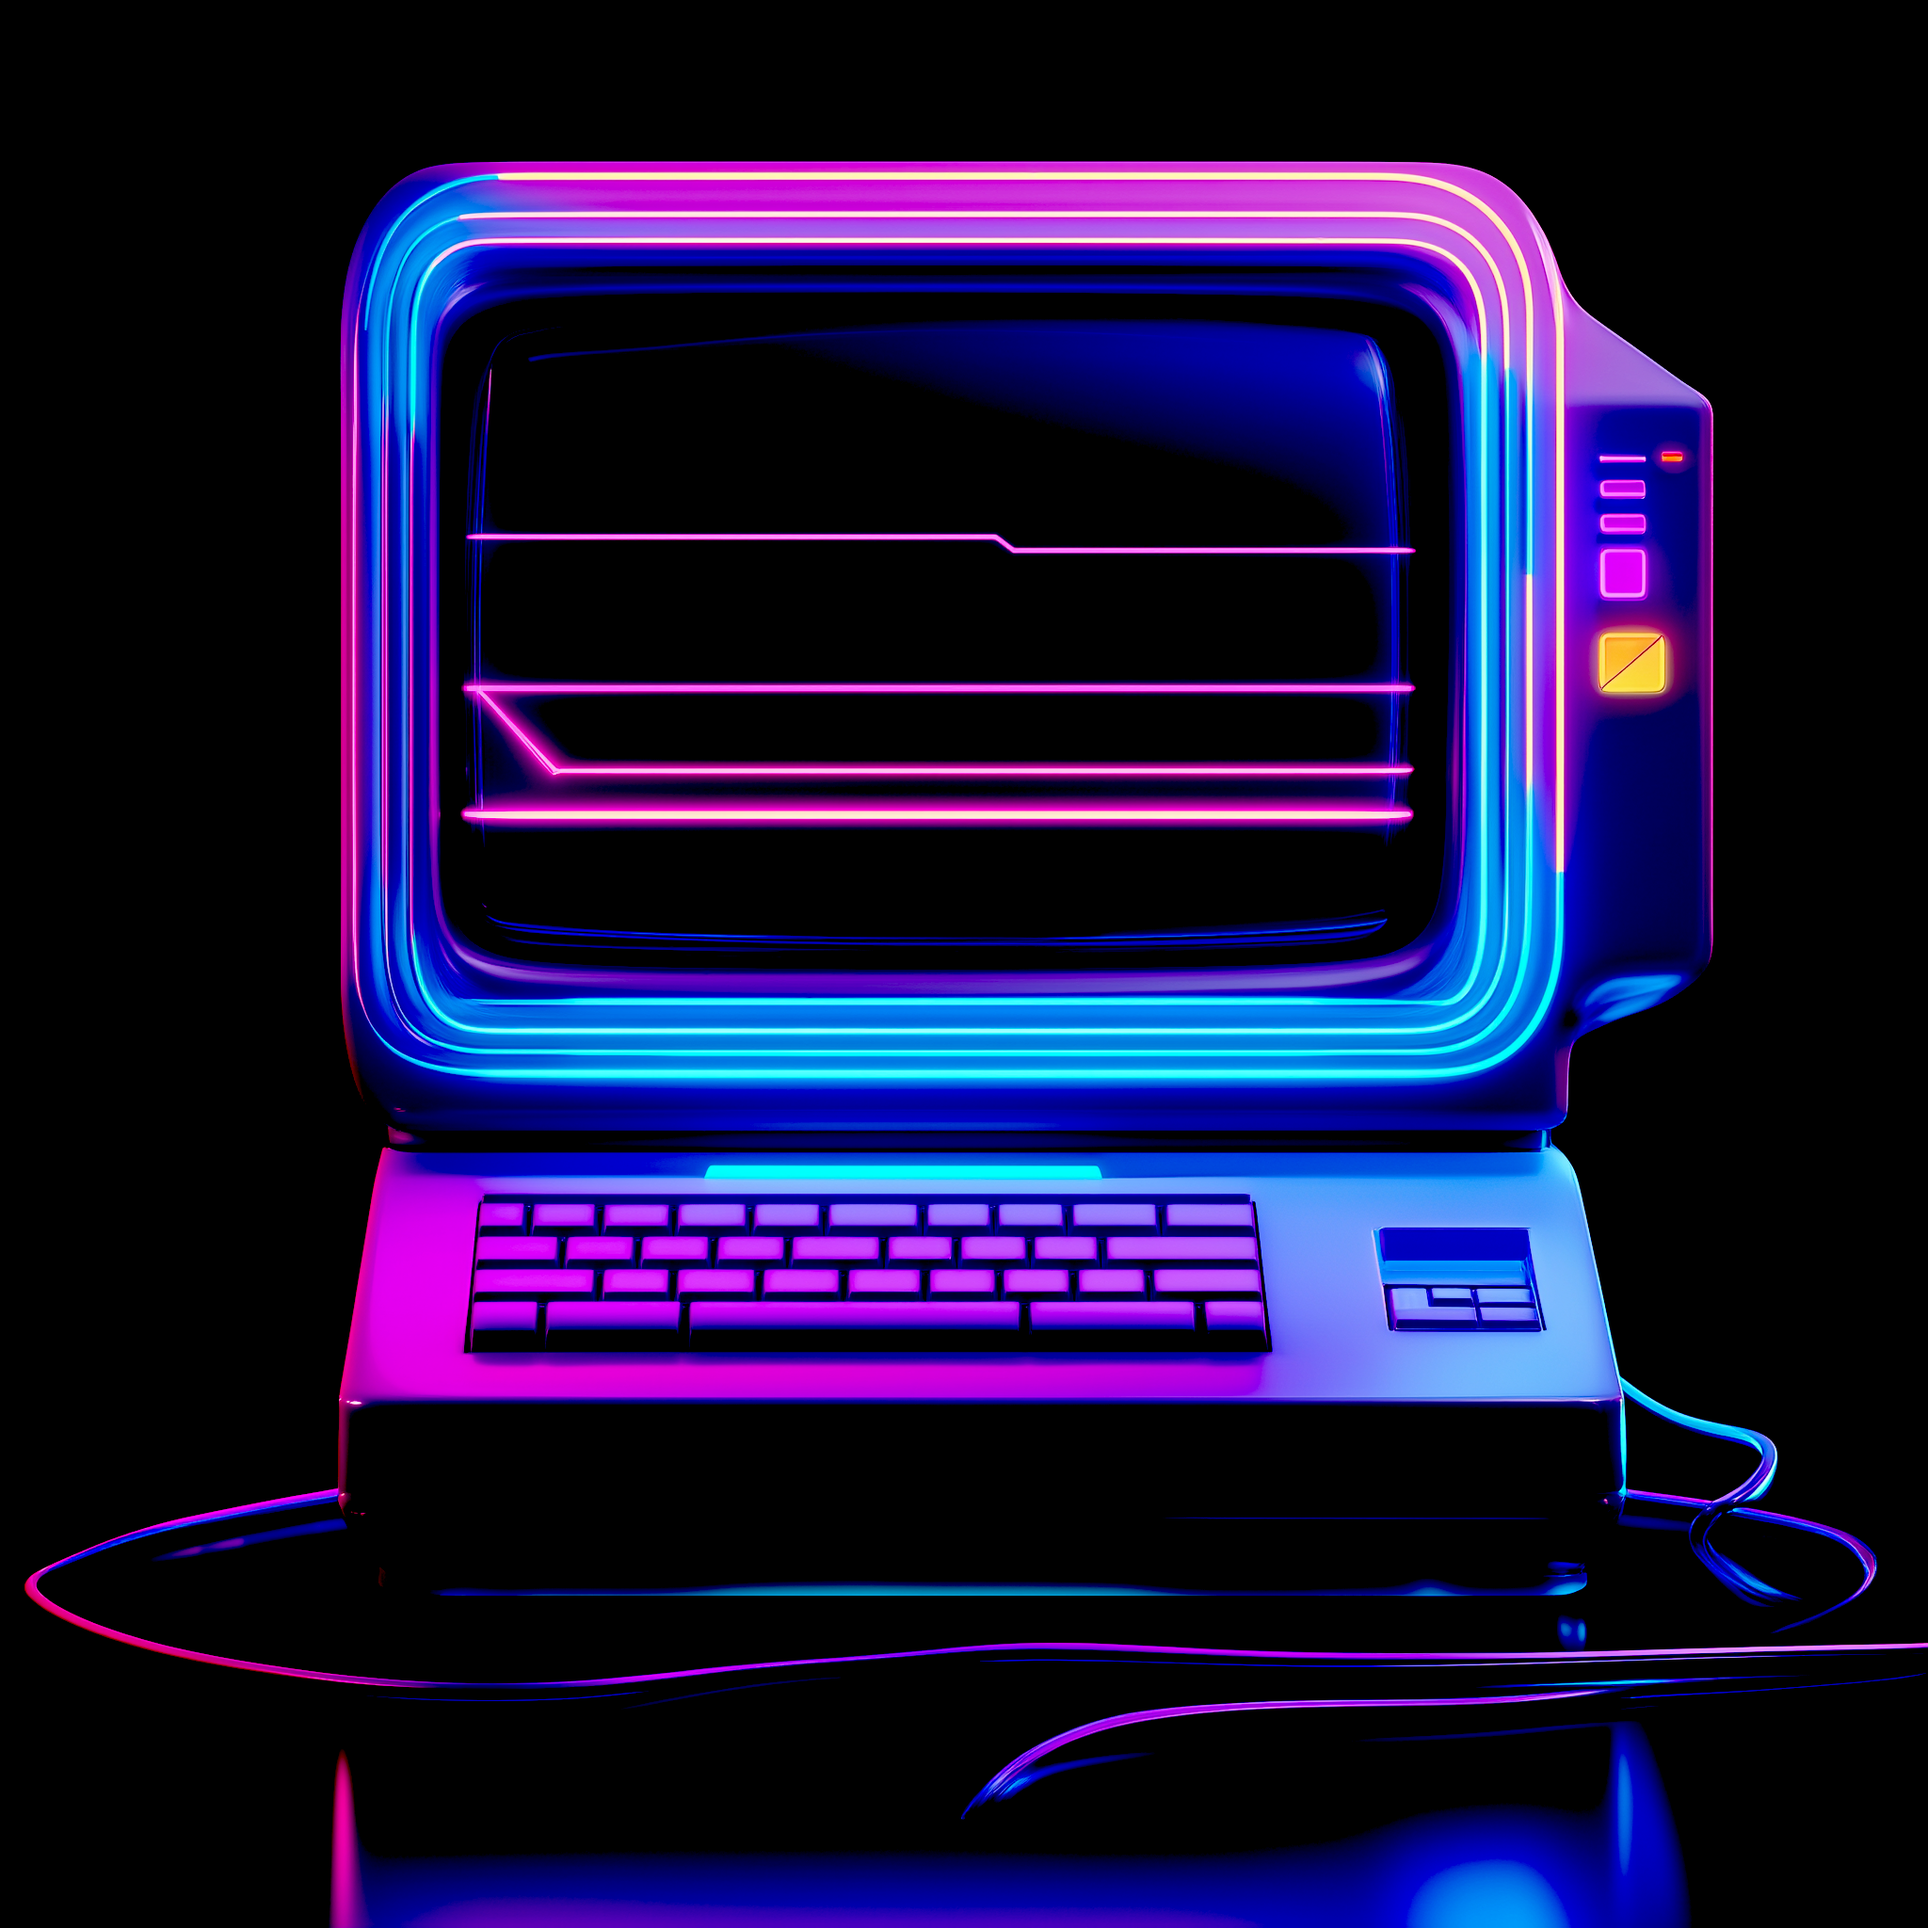
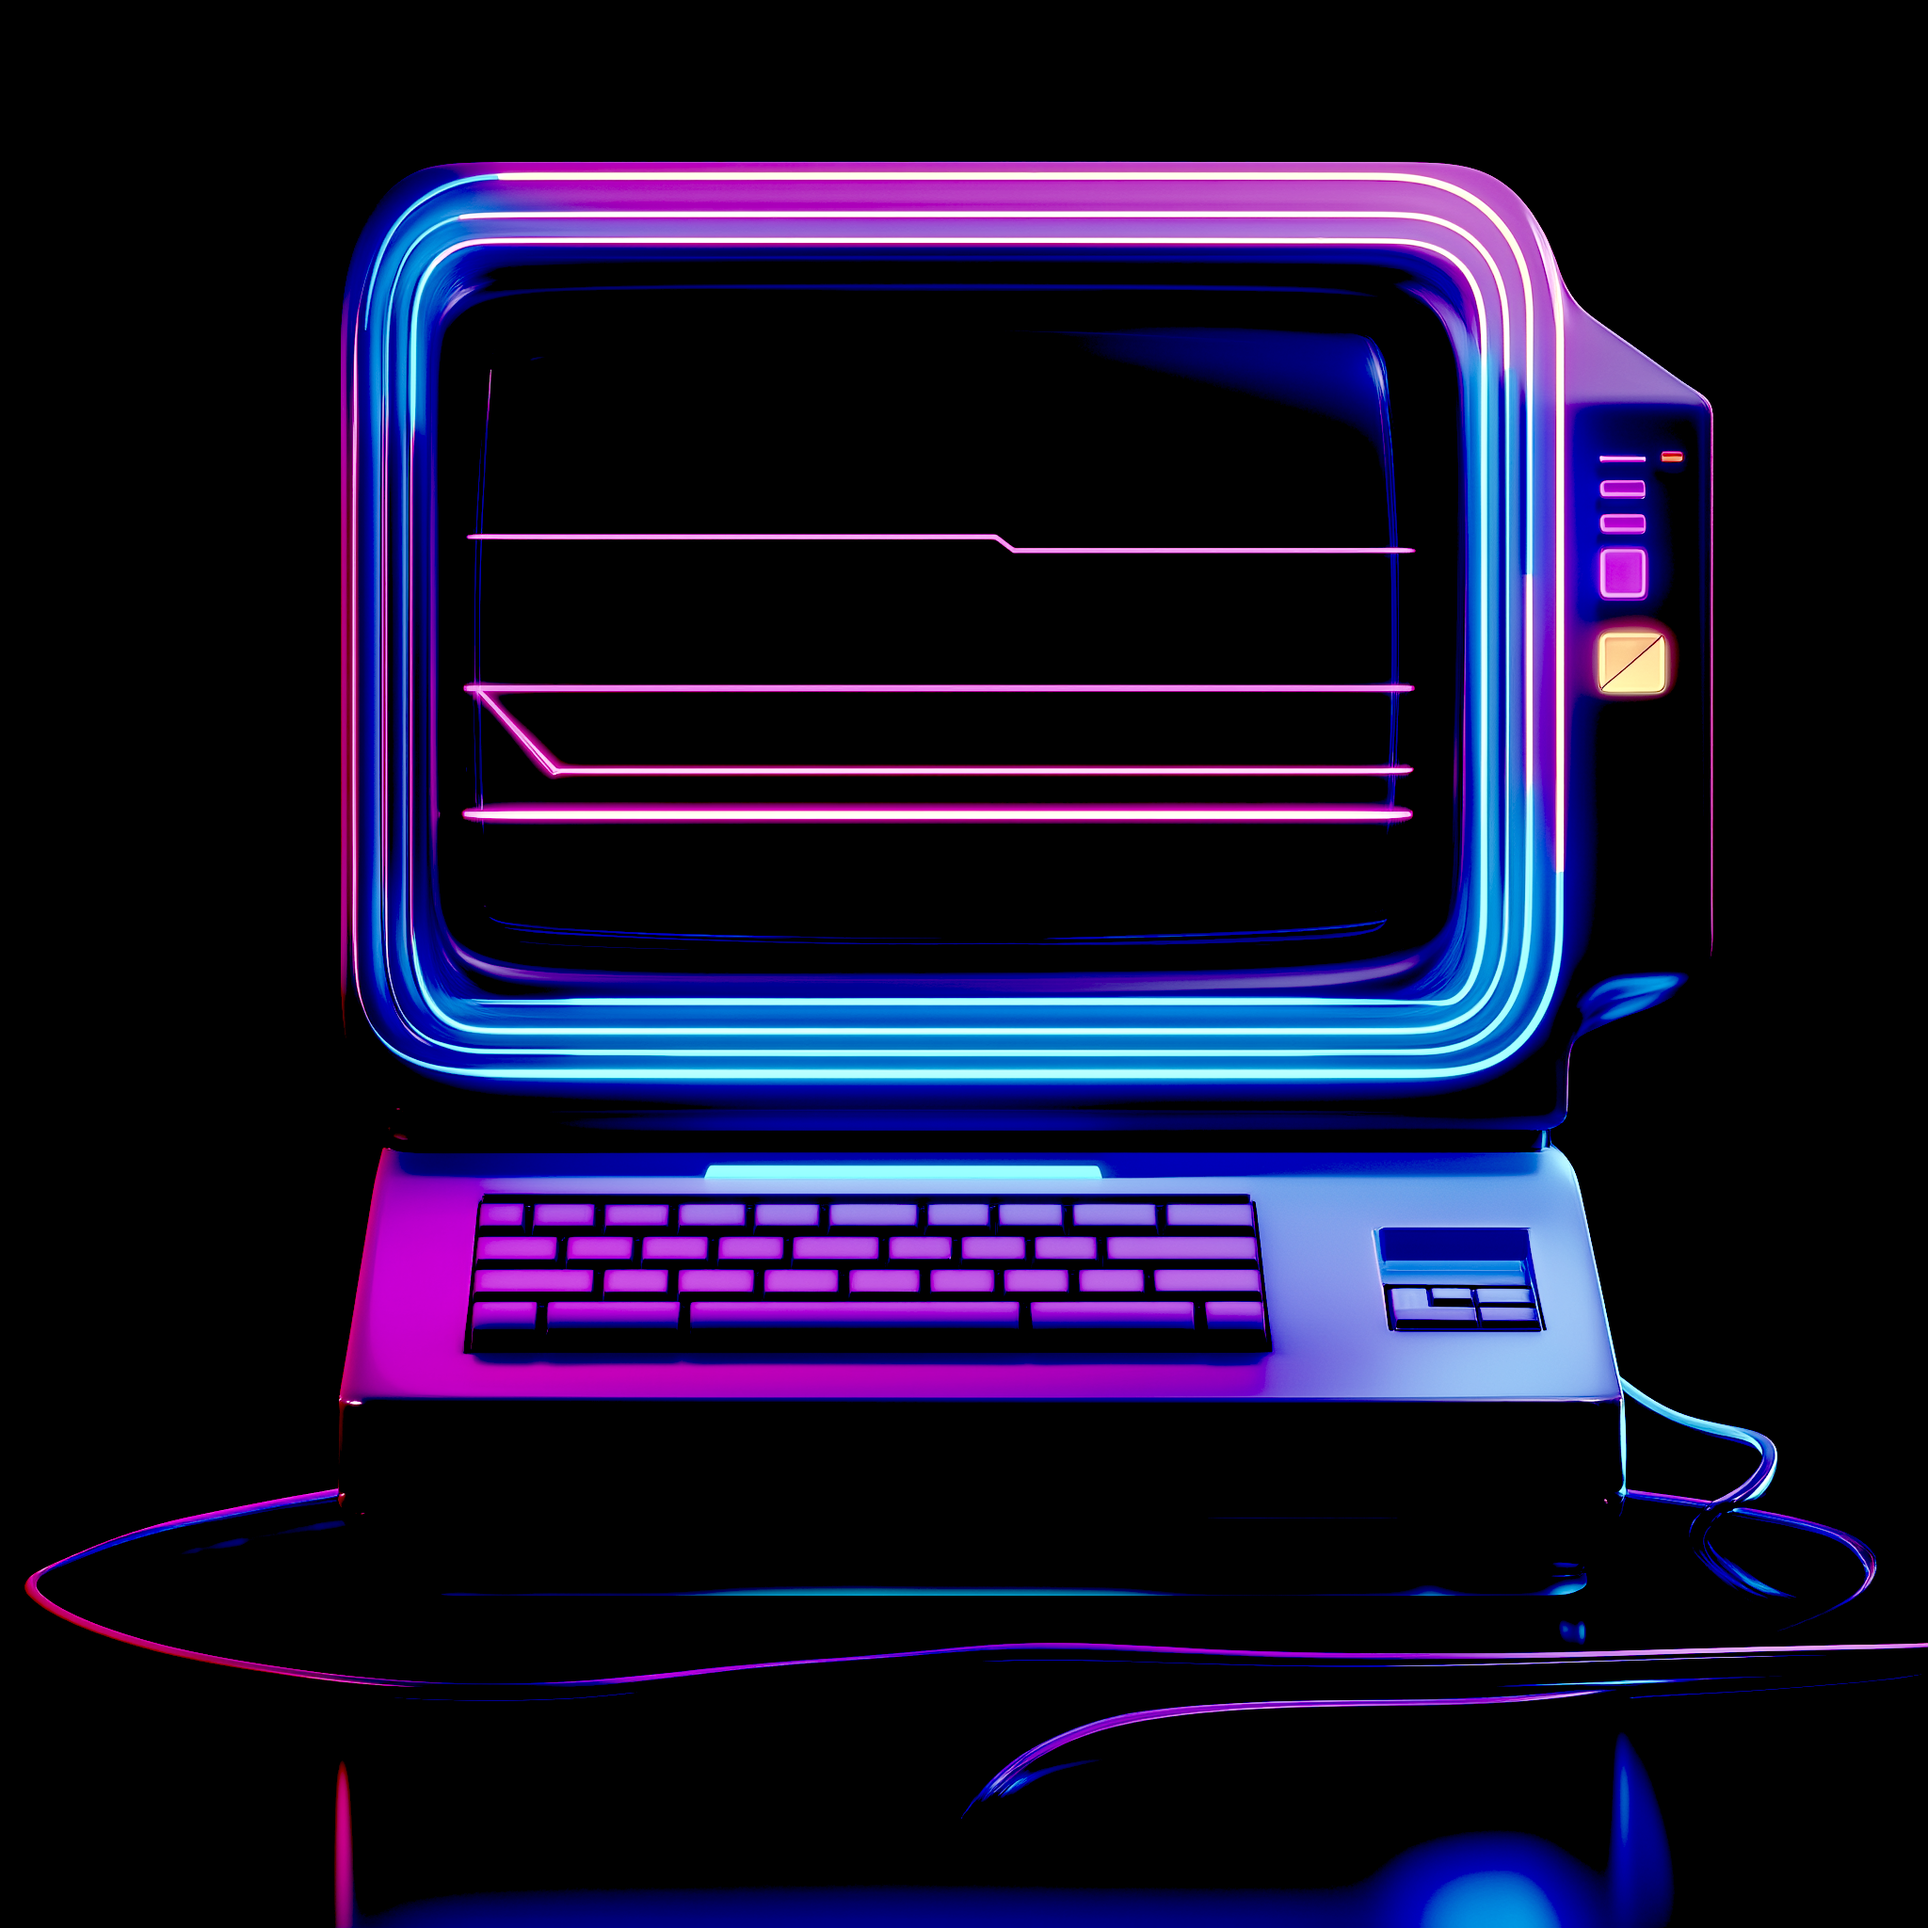
update info images

diff --git a/src/components/sections/info.tsx b/src/components/sections/info.tsx
@@ -147,21 +147,27 @@ const Info = () => {
               </motion.div>
             </AnimatePresence>
             <div className="relative m-2 rounded bg-black">
-              <MotionImage
-                // Motion props
-                key={selected}
-                variants={imgVariants}
-                initial="initial"
-                animate="animate"
-                transition={transition}
-                // Image props
-                alt={item.alt}
-                src={item.img}
-                width={1000}
-                height={1000}
-                className="scale-[80%] transform"
-                style={{ clipPath: "inset(2px)" }}
-              />
+              <AnimatePresence mode="wait">
+                <Image
+                  // Motion props
+                  // key={selected}
+                  // initial="initial"
+                  // animate="animate"
+                  // exit="exit"
+                  // variants={imgVariants}
+                  // transition={transition}
+                  // Image props
+                  alt={item.alt}
+                  src={item.img}
+                  width={1000}
+                  height={1000}
+                  className="scale-[80%] transform"
+                  style={{
+                    clipPath: "inset(2px)",
+                    imageRendering: "pixelated",
+                  }}
+                />
+              </AnimatePresence>
 
               <div
                 style={{
@@ -171,7 +177,7 @@ const Info = () => {
                   left: 0,
                   right: 0,
                   zIndex: 3,
-                  backdropFilter: "blur(24px)",
+                  backdropFilter: "blur(12px)",
                   mask: "radial-gradient(circle, transparent 25%, rgb(0, 0, 0) 75%)",
                 }}
               />
